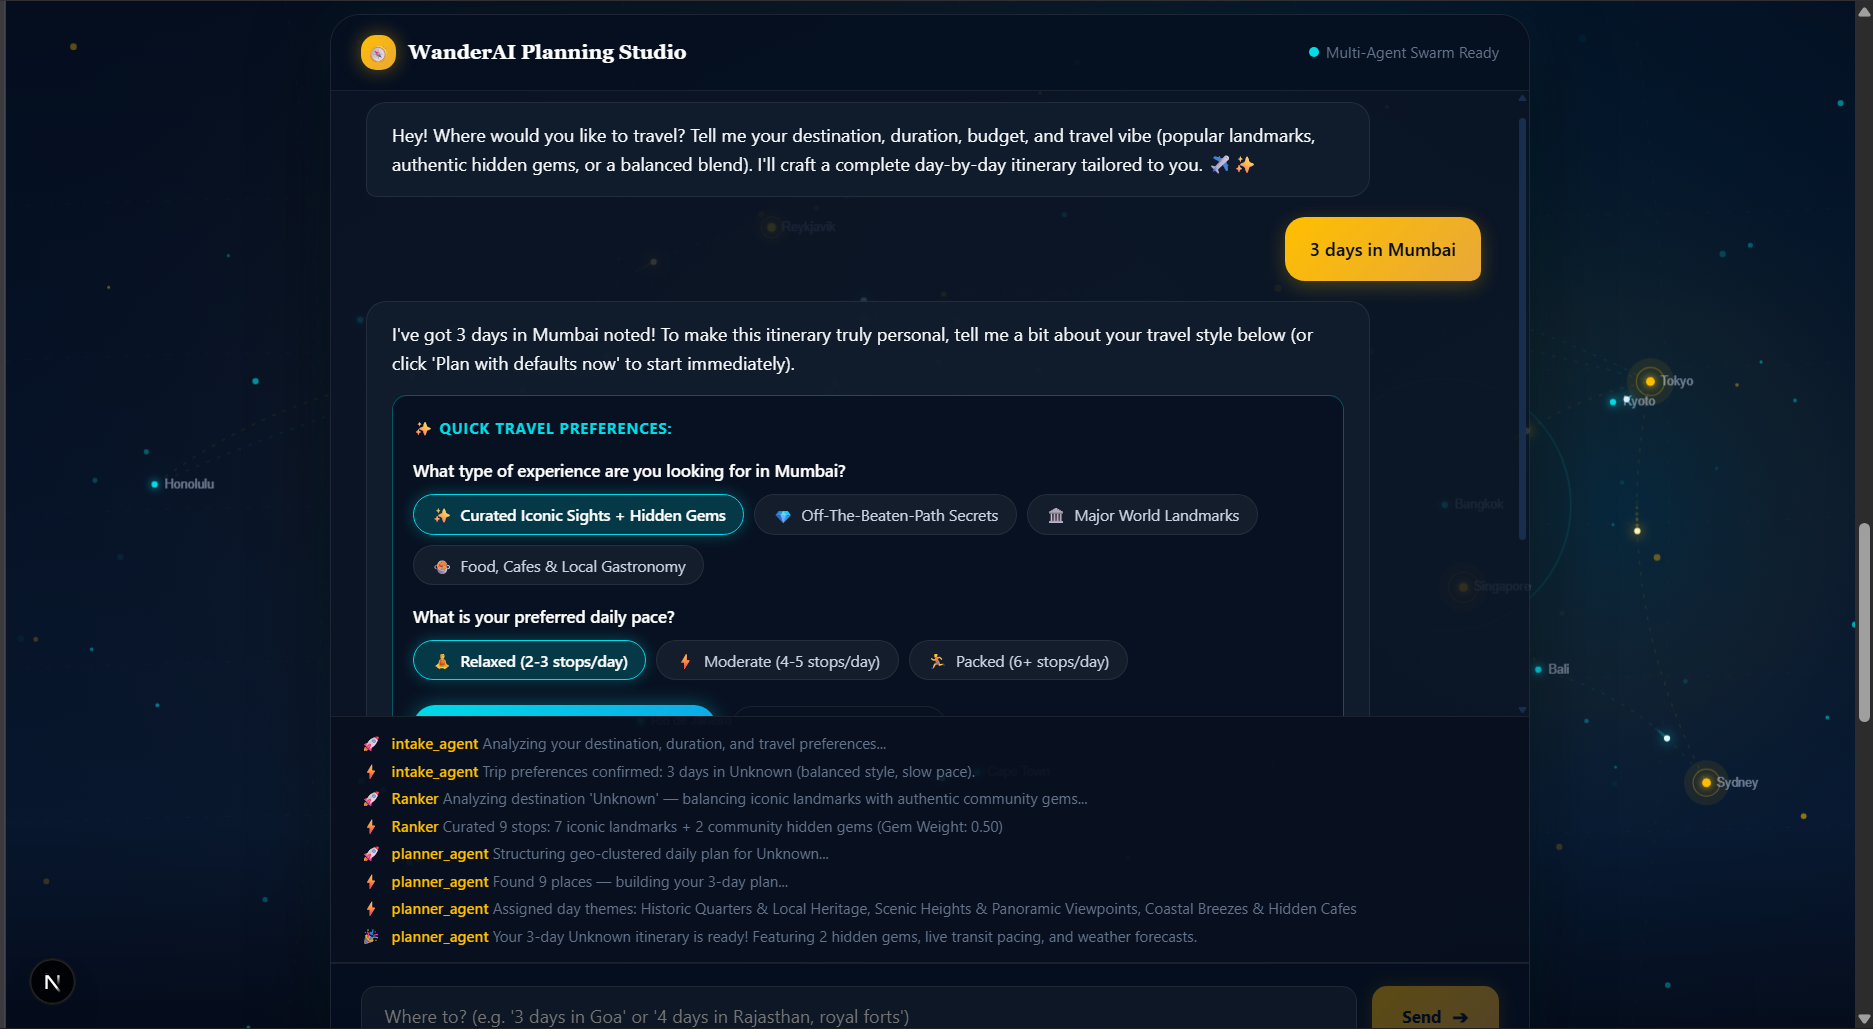
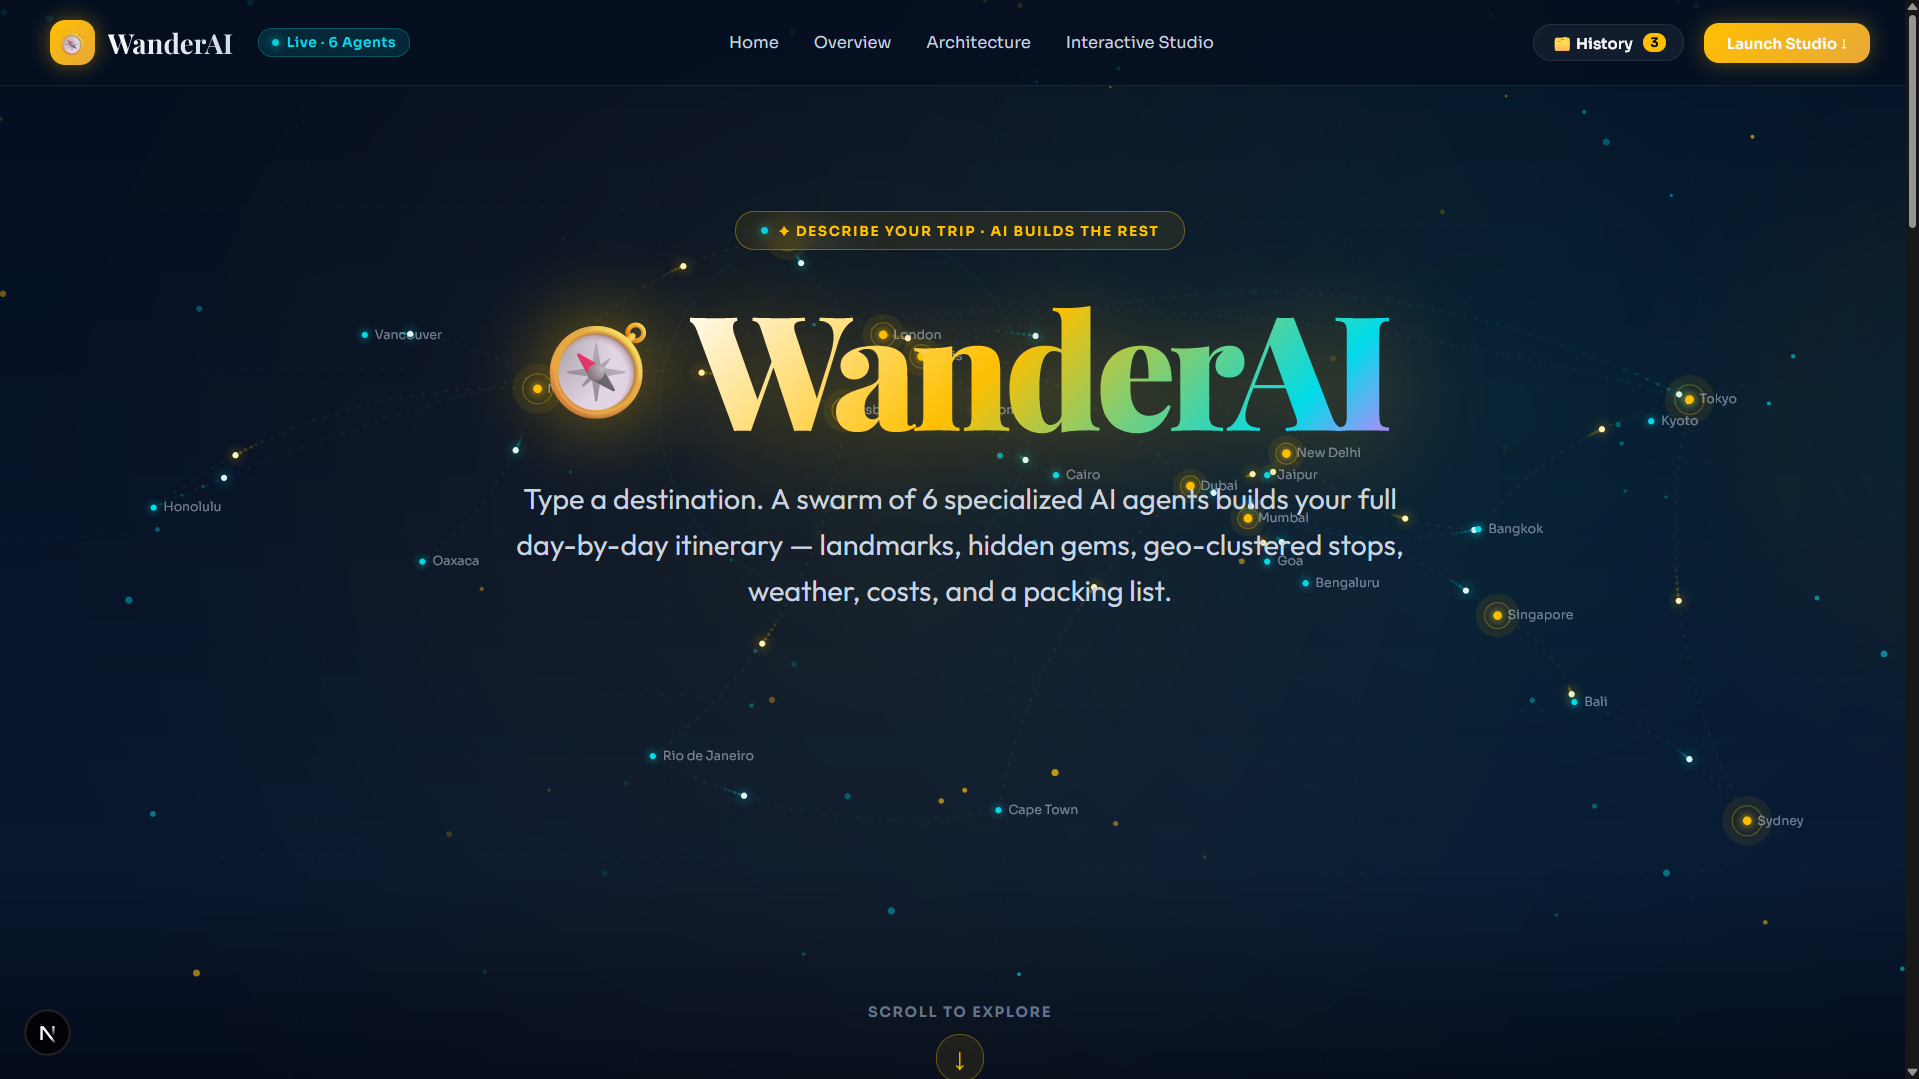
feat: add chronological visual walkthroughs and hero landing showcases for WanderAI and AI Research OS

diff --git a/projects/ai-travel-assistant.html b/projects/ai-travel-assistant.html
@@ -64,6 +64,18 @@
     </div>
   </section>
 
+  <!-- ========== HERO LANDING SHOWCASE (MAIN HOME) ========== -->
+  <section class="project-section" style="padding-top: 0;">
+    <div class="container">
+      <div class="demo-showcase-item" style="max-width: 1050px; margin: 0 auto;">
+        <h3 class="showcase-item-title">🌌 01 · Main Home & Exploration Studio</h3>
+        <div class="image-wrapper">
+          <img src="../assets/project_images/travel_assistant/1.png" alt="WanderAI Nocturnal Voyager Landing Studio" class="showcase-img lightbox-img">
+        </div>
+      </div>
+    </div>
+  </section>
+
   <!-- ========== PROBLEM & SOLUTION ========== -->
   <section class="project-section">
     <div class="container">
@@ -133,6 +145,93 @@
           <span class="feature-icon">🎒</span>
           <h3>Smart Packing Checklist & Weather</h3>
           <p>Activity- and climate-aware packing checklist generator with interactive checkboxes, live Open-Meteo forecasts, and Google Maps turn-by-turn navigation deep links.</p>
+        </div>
+      </div>
+    </div>
+  </section>
+
+  <!-- ========== CHRONOLOGICAL SYSTEM WALKTHROUGH ========== -->
+  <section class="project-section">
+    <div class="container">
+      <h2 class="detail-section-title center">📸 Chronological System Walkthrough</h2>
+      <p style="text-align: center; color: var(--text-secondary); max-width: 700px; margin: 0 auto 32px; font-size: 0.95rem;">
+        Follow the multi-agent travel planning journey from initial landing and preference intake to real-time agent reasoning and final interactive map generation.
+      </p>
+      <div class="carousel-wrapper" style="max-width: 1050px; margin: 0 auto;">
+        <div class="custom-carousel" id="carousel-travel">
+          <div class="carousel-track-container">
+            <ul class="carousel-track" style="width: 700%;">
+              <!-- Slide 1 -->
+              <li class="carousel-slide active" style="width: 14.2857%;">
+                <img src="../assets/project_images/travel_assistant/1.png" alt="01 - Main Home & Landing Page" class="carousel-img lightbox-img">
+                <div class="carousel-caption">
+                  <h4>01 · Main Home & Exploration Studio</h4>
+                  <p>Nocturnal Voyager constellation landing interface with real-time 6-agent status badge and quick query launcher.</p>
+                </div>
+              </li>
+              <!-- Slide 2 -->
+              <li class="carousel-slide" style="width: 14.2857%;">
+                <img src="../assets/project_images/travel_assistant/2.png" alt="02 - Curated Destinations Hub" class="carousel-img lightbox-img">
+                <div class="carousel-caption">
+                  <h4>02 · Curated Hubs & Destination Launchpad</h4>
+                  <p>Instant curated inspiration cards for Goa, Rajasthan, Lisbon, and Kyoto with pre-tuned regional parameters.</p>
+                </div>
+              </li>
+              <!-- Slide 3 -->
+              <li class="carousel-slide" style="width: 14.2857%;">
+                <img src="../assets/project_images/travel_assistant/3.png" alt="03 - Freeform Chat & Dietary Preferences" class="carousel-img lightbox-img">
+                <div class="carousel-caption">
+                  <h4>03 · Interactive Studio — Freeform Chat & Dietary Bias</h4>
+                  <p>Natural language trip prompt input with one-click dietary bias filters (Vegan, Halal, Vegetarian, Gluten-Free, Jain).</p>
+                </div>
+              </li>
+              <!-- Slide 4 -->
+              <li class="carousel-slide" style="width: 14.2857%;">
+                <img src="../assets/project_images/travel_assistant/4.png" alt="04 - Guided Option-Based Builder" class="carousel-img lightbox-img">
+                <div class="carousel-caption">
+                  <h4>04 · Guided Multi-Select Trip Customizer</h4>
+                  <p>Option-based builder configuring duration, travel vibes, sightseeing pacing, budget tiers, and traveler group types.</p>
+                </div>
+              </li>
+              <!-- Slide 5 -->
+              <li class="carousel-slide" style="width: 14.2857%;">
+                <img src="../assets/project_images/travel_assistant/5.png" alt="05 - Multi-Agent Reasoning Stream" class="carousel-img lightbox-img">
+                <div class="carousel-caption">
+                  <h4>05 · Real-Time Multi-Agent Reasoning Stream</h4>
+                  <p>Live LangGraph execution stream displaying intake_agent extraction, ranker scouting, and planner_agent structuring.</p>
+                </div>
+              </li>
+              <!-- Slide 6 -->
+              <li class="carousel-slide" style="width: 14.2857%;">
+                <img src="../assets/project_images/travel_assistant/6.png" alt="06 - Generated Daily Itinerary & Map" class="carousel-img lightbox-img">
+                <div class="carousel-caption">
+                  <h4>06 · Generated Itinerary & Interactive Leaflet Map</h4>
+                  <p>Day-by-day tabs with geocoded attraction pins, live route polylines, weather summaries, and export capabilities.</p>
+                </div>
+              </li>
+              <!-- Slide 7 -->
+              <li class="carousel-slide" style="width: 14.2857%;">
+                <img src="../assets/project_images/travel_assistant/7.png" alt="07 - Granular Attraction Cards & Actions" class="carousel-img lightbox-img">
+                <div class="carousel-caption">
+                  <h4>07 · Granular Attraction Cards & Stop Actions</h4>
+                  <p>Detailed timeline stop cards featuring local historical context, estimated costs, walk times, and swap/remove controls.</p>
+                </div>
+              </li>
+            </ul>
+          </div>
+          <!-- Controls -->
+          <button class="carousel-btn btn-prev" aria-label="Previous slide">‹</button>
+          <button class="carousel-btn btn-next" aria-label="Next slide">›</button>
+          <!-- Indicators -->
+          <div class="carousel-nav-dots">
+            <button class="carousel-dot active" aria-label="Go to slide 1"></button>
+            <button class="carousel-dot" aria-label="Go to slide 2"></button>
+            <button class="carousel-dot" aria-label="Go to slide 3"></button>
+            <button class="carousel-dot" aria-label="Go to slide 4"></button>
+            <button class="carousel-dot" aria-label="Go to slide 5"></button>
+            <button class="carousel-dot" aria-label="Go to slide 6"></button>
+            <button class="carousel-dot" aria-label="Go to slide 7"></button>
+          </div>
         </div>
       </div>
     </div>
@@ -244,6 +343,12 @@
     </div>
   </section>
 
+  <!-- Lightbox Modal -->
+  <div id="lightboxModal" class="lightbox-modal" style="display:none;">
+    <span class="lightbox-close" id="lightboxClose">&times;</span>
+    <img class="lightbox-content" id="lightboxImg" src="" alt="Enlarged image">
+  </div>
+
   <!-- ========== FOOTER ========== -->
   <footer class="footer">
     <div class="container">
@@ -252,6 +357,69 @@
   </footer>
 
   <script src="../js/main.js"></script>
+  <script>
+    document.addEventListener('DOMContentLoaded', () => {
+      // ---------- Carousel Logic ----------
+      const initCarousel = (carouselId, slideCount) => {
+        const carousel = document.getElementById(carouselId);
+        if (!carousel) return;
+        const track = carousel.querySelector('.carousel-track');
+        const slides = Array.from(track.children);
+        const nextButton = carousel.querySelector('.btn-next');
+        const prevButton = carousel.querySelector('.btn-prev');
+        const dotsNav = carousel.querySelector('.carousel-nav-dots');
+        const dots = Array.from(dotsNav.children);
+        let currentIndex = 0;
+        const slideWidthPct = 100 / slideCount;
+
+        const updateCarousel = (index) => {
+          track.style.transform = `translateX(-${index * slideWidthPct}%)`;
+          slides.forEach((slide, i) => slide.classList.toggle('active', i === index));
+          dots.forEach((dot, i) => dot.classList.toggle('active', i === index));
+          currentIndex = index;
+        };
+
+        if (nextButton) {
+          nextButton.addEventListener('click', () => {
+            updateCarousel((currentIndex + 1) % slides.length);
+          });
+        }
+        if (prevButton) {
+          prevButton.addEventListener('click', () => {
+            updateCarousel((currentIndex - 1 + slides.length) % slides.length);
+          });
+        }
+        dots.forEach((dot, i) => dot.addEventListener('click', () => updateCarousel(i)));
+      };
+
+      initCarousel('carousel-travel', 7);
+
+      // ---------- Lightbox ----------
+      const lightboxModal = document.getElementById('lightboxModal');
+      const lightboxImg   = document.getElementById('lightboxImg');
+      const lightboxClose = document.getElementById('lightboxClose');
+
+      if (lightboxModal && lightboxImg) {
+        document.querySelectorAll('.lightbox-img').forEach(img => {
+          img.addEventListener('click', () => {
+            lightboxImg.src = img.src;
+            lightboxModal.style.display = 'flex';
+          });
+        });
+        if (lightboxClose) {
+          lightboxClose.addEventListener('click', () => {
+            lightboxModal.style.display = 'none';
+          });
+        }
+        lightboxModal.addEventListener('click', (e) => {
+          if (e.target === lightboxModal) lightboxModal.style.display = 'none';
+        });
+        document.addEventListener('keydown', (e) => {
+          if (e.key === 'Escape') lightboxModal.style.display = 'none';
+        });
+      }
+    });
+  </script>
 </body>
 
 </html>

diff --git a/projects/ai-research-agent.html b/projects/ai-research-agent.html
@@ -62,6 +62,18 @@
     </div>
   </section>
 
+  <!-- ========== HERO LANDING SHOWCASE (MAIN HOME) ========== -->
+  <section class="project-section" style="padding-top: 0;">
+    <div class="container">
+      <div class="demo-showcase-item" style="max-width: 1050px; margin: 0 auto;">
+        <h3 class="showcase-item-title">📚 01 · Main Home & Paper Hub</h3>
+        <div class="image-wrapper">
+          <img src="../assets/project_images/ai%20research%20assistant/1.png" alt="AI Research OS Paper Hub Interface" class="showcase-img lightbox-img">
+        </div>
+      </div>
+    </div>
+  </section>
+
   <!-- ========== PROBLEM & SOLUTION ========== -->
   <section class="project-section">
     <div class="container">
@@ -116,6 +128,57 @@
           <span class="feature-icon">📊</span>
           <h3>Survey Generator & Gap Finder</h3>
           <p>Surfaces open research problems by cross-referencing paper limitations, builds side-by-side taxonomy matrices, and exports citations in BibTeX/APA format.</p>
+        </div>
+      </div>
+    </div>
+  </section>
+
+  <!-- ========== CHRONOLOGICAL INTERFACE WALKTHROUGH ========== -->
+  <section class="project-section">
+    <div class="container">
+      <h2 class="detail-section-title center">📸 Chronological System Walkthrough & Core Pillars</h2>
+      <p style="text-align: center; color: var(--text-secondary); max-width: 700px; margin: 0 auto 32px; font-size: 0.95rem;">
+        Explore the primary user journeys across the 3 core pillars of AI Research OS: arXiv preprint ingestion, comparative multi-paper synthesis, and interactive multimodal RAG copilot.
+      </p>
+      <div class="carousel-wrapper" style="max-width: 1050px; margin: 0 auto;">
+        <div class="custom-carousel" id="carousel-research">
+          <div class="carousel-track-container">
+            <ul class="carousel-track" style="width: 300%;">
+              <!-- Slide 1 -->
+              <li class="carousel-slide active" style="width: 33.3333%;">
+                <img src="../assets/project_images/ai%20research%20assistant/1.png" alt="Pillar 01 - Paper Hub & arXiv Ingestion" class="carousel-img lightbox-img">
+                <div class="carousel-caption">
+                  <h4>Pillar 01 · Main Home & Paper Hub</h4>
+                  <p>Real-time arXiv preprint discovery, relevance/date sorting, batch ingestion queue with duplicate prevention, and indexed Qdrant vector status monitor.</p>
+                </div>
+              </li>
+              <!-- Slide 2 -->
+              <li class="carousel-slide" style="width: 33.3333%;">
+                <img src="../assets/project_images/ai%20research%20assistant/2.png" alt="Pillar 02 - Synthesis Studio & Comparison Matrix" class="carousel-img lightbox-img">
+                <div class="carousel-caption">
+                  <h4>Pillar 02 · Synthesis Studio & Comparative Matrix</h4>
+                  <p>Multi-paper side-by-side taxonomy contrast, comparative evaluation tables, deep literature surveys, and automated open research gap detection.</p>
+                </div>
+              </li>
+              <!-- Slide 3 -->
+              <li class="carousel-slide" style="width: 33.3333%;">
+                <img src="../assets/project_images/ai%20research%20assistant/3.png" alt="Pillar 03 - Agent Copilot & Evolution" class="carousel-img lightbox-img">
+                <div class="carousel-caption">
+                  <h4>Pillar 03 · Agent Copilot & Multimodal RAG</h4>
+                  <p>Interactive literature copilot with Server-Sent Events (SSE) streaming, voice research mode, and clickable paragraph-level citation badges opening exact source context.</p>
+                </div>
+              </li>
+            </ul>
+          </div>
+          <!-- Controls -->
+          <button class="carousel-btn btn-prev" aria-label="Previous slide">‹</button>
+          <button class="carousel-btn btn-next" aria-label="Next slide">›</button>
+          <!-- Indicators -->
+          <div class="carousel-nav-dots">
+            <button class="carousel-dot active" aria-label="Go to slide 1"></button>
+            <button class="carousel-dot" aria-label="Go to slide 2"></button>
+            <button class="carousel-dot" aria-label="Go to slide 3"></button>
+          </div>
         </div>
       </div>
     </div>
@@ -206,6 +269,12 @@
     </div>
   </section>
 
+  <!-- Lightbox Modal -->
+  <div id="lightboxModal" class="lightbox-modal" style="display:none;">
+    <span class="lightbox-close" id="lightboxClose">&times;</span>
+    <img class="lightbox-content" id="lightboxImg" src="" alt="Enlarged image">
+  </div>
+
   <!-- ========== FOOTER ========== -->
   <footer class="footer">
     <div class="container">
@@ -214,6 +283,69 @@
   </footer>
 
   <script src="../js/main.js"></script>
+  <script>
+    document.addEventListener('DOMContentLoaded', () => {
+      // ---------- Carousel Logic ----------
+      const initCarousel = (carouselId, slideCount) => {
+        const carousel = document.getElementById(carouselId);
+        if (!carousel) return;
+        const track = carousel.querySelector('.carousel-track');
+        const slides = Array.from(track.children);
+        const nextButton = carousel.querySelector('.btn-next');
+        const prevButton = carousel.querySelector('.btn-prev');
+        const dotsNav = carousel.querySelector('.carousel-nav-dots');
+        const dots = Array.from(dotsNav.children);
+        let currentIndex = 0;
+        const slideWidthPct = 100 / slideCount;
+
+        const updateCarousel = (index) => {
+          track.style.transform = `translateX(-${index * slideWidthPct}%)`;
+          slides.forEach((slide, i) => slide.classList.toggle('active', i === index));
+          dots.forEach((dot, i) => dot.classList.toggle('active', i === index));
+          currentIndex = index;
+        };
+
+        if (nextButton) {
+          nextButton.addEventListener('click', () => {
+            updateCarousel((currentIndex + 1) % slides.length);
+          });
+        }
+        if (prevButton) {
+          prevButton.addEventListener('click', () => {
+            updateCarousel((currentIndex - 1 + slides.length) % slides.length);
+          });
+        }
+        dots.forEach((dot, i) => dot.addEventListener('click', () => updateCarousel(i)));
+      };
+
+      initCarousel('carousel-research', 3);
+
+      // ---------- Lightbox ----------
+      const lightboxModal = document.getElementById('lightboxModal');
+      const lightboxImg   = document.getElementById('lightboxImg');
+      const lightboxClose = document.getElementById('lightboxClose');
+
+      if (lightboxModal && lightboxImg) {
+        document.querySelectorAll('.lightbox-img').forEach(img => {
+          img.addEventListener('click', () => {
+            lightboxImg.src = img.src;
+            lightboxModal.style.display = 'flex';
+          });
+        });
+        if (lightboxClose) {
+          lightboxClose.addEventListener('click', () => {
+            lightboxModal.style.display = 'none';
+          });
+        }
+        lightboxModal.addEventListener('click', (e) => {
+          if (e.target === lightboxModal) lightboxModal.style.display = 'none';
+        });
+        document.addEventListener('keydown', (e) => {
+          if (e.key === 'Escape') lightboxModal.style.display = 'none';
+        });
+      }
+    });
+  </script>
 </body>
 
 </html>

diff --git a/index.html b/index.html
@@ -255,18 +255,7 @@ hidden_gem_score = clamp(
       <!-- Flagship 1: WanderAI -->
       <div class="flagship-showcase">
         <div class="flagship-preview">
-          <div style="padding: 32px; font-family: var(--font-mono); font-size: 0.82rem; color: #94a3b8; line-height: 1.7; width: 100%;">
-            <div style="color: var(--accent); margin-bottom: 12px; font-weight: 600;">[PIPELINE_ARCHITECTURE: WANDER_AI]</div>
-            <div>├── 1. Intake: Intent Classifier & Dynamic Q&A</div>
-            <div>├── 2. Scraper: Reddit & Tavily Hidden Gem Extraction</div>
-            <div>├── 3. Scorer: Log-Normalized Sentiment & Review Weighting</div>
-            <div>├── 4. Clusterer: K-means++ Spatial POI Geo-Clustering</div>
-            <div>├── 5. Planner: LangGraph Cyclic State Machine (SQLite)</div>
-            <div>└── 6. Exporter: Drag-and-Drop Timeline & Playwright PDF</div>
-            <div style="margin-top: 18px; padding-top: 14px; border-top: 1px dashed var(--border); color: #f8fafc;">
-              Status: 100% Functional · Next.js 16 + FastAPI
-            </div>
-          </div>
+          <img src="assets/project_images/travel_assistant/1.png" alt="WanderAI Nocturnal Voyager Landing Studio">
         </div>
         <div class="flagship-body">
           <span class="flagship-badge">FLAGSHIP SYSTEM 01 · MULTI-AGENT STATE MACHINE</span>
@@ -348,18 +337,7 @@ hidden_gem_score = clamp(
           </div>
         </div>
         <div class="flagship-preview">
-          <div style="padding: 32px; font-family: var(--font-mono); font-size: 0.82rem; color: #94a3b8; line-height: 1.7; width: 100%;">
-            <div style="color: var(--accent); margin-bottom: 12px; font-weight: 600;">[PIPELINE_ARCHITECTURE: RESEARCH_OS]</div>
-            <div>├── 1. Ingestion: arXiv API + PDF Upload</div>
-            <div>├── 2. Layout Extraction: Docling (Tables + OCR)</div>
-            <div>├── 3. Vision Model: Qwen2.5-VL (Figure Captions)</div>
-            <div>├── 4. Vector Storage: Qdrant Dense Embeddings</div>
-            <div>├── 5. Survey Agent: LangGraph 4-Agent Cyclic Team</div>
-            <div>└── 6. Interactive Inspector: SSE Paragraph Citations</div>
-            <div style="margin-top: 18px; padding-top: 14px; border-top: 1px dashed var(--border); color: #f8fafc;">
-              Status: 100% Functional · Next.js 15 + FastAPI
-            </div>
-          </div>
+          <img src="assets/project_images/ai%20research%20assistant/1.png" alt="AI Research OS Paper Hub Interface">
         </div>
       </div>
 
